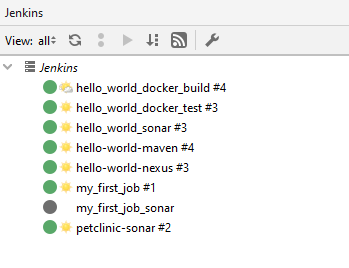
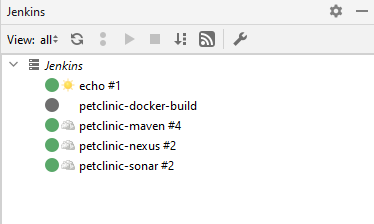
Modifying comments and adding more tools such as grafana and zabbix

Changed region(s): [[0.0, 0.0, 1.0, 1.0], [0.9456, 0.0312, 1.0, 0.0625]]

diff --git a/PIPELINE_GUI.md b/PIPELINE_GUI.md
@@ -1,15 +1,14 @@
-# Set up Jenkins Pipeline by using the graphic interface
- Go to hello_world_maven   
- Go to Post-Build Action   
- Add Post-Build Action   
-select Build other projects and type hello_world_sonar
-Press Apply and save
-Do the same action in 
-hello_world_sonar
-hello_world_nexus
-hello_world_docker_build
-hello_world_docker_run. parallel run hello-world-jmeter, hello-world-selenium
-
+# Set up Jenkins pipeline by using the graphic interface
+ Go to petclinic_maven     
+ Go to Post-Build Action     
+ Add Post-Build Action     
+select Build other projects and type hello_world_sonar  
+Press Apply and save  
+Do the same action in   
+petclinic_sonar  
+prtclinic_nexus  
+petclinic_docker_build
+petclinic_docker_run, eventually for parallel run petclinic-jmeter, petclinic-selenium
 
 
 ## Graphic pipeline 
@@ -17,10 +16,10 @@ Go to  Manage Jenkins ->  Manage Plugin -> Tab available
 Filter Pipeline  select Build Pipeline   
 Press install without restart   
 Go back to the Dashboard  , click on the cross in the tab 
-View name :  hello-world pipeline  
+View name :  petclinic pipeline  
 Check Build Pipeline view   
 Press ok   
-Verify if select initial job is set to  hello-world-maven  
+Verify if select initial job is set to  petclinic-maven  
 See the graph   
 ![jenkins_pipeline](screenshots/pipeline_view.png)
 
@@ -38,21 +37,21 @@ click save
 
 ## Set a github webhook 
 Hit a tab in your browser and go to your personnal github account.   
-Select the hello-world repo   
+Select the petclinic repo   
 Type on settings, it's located on the middle menu on the right side    
 On the left menu select Webhooks   
 click on add webhook  
 Confirm with your password  
 In the page, enter in Payload URL:
 ````shell script
-  http://<jenkins_ip_address>:18080/github-webhook/
+  http://<jenkins_ip_address>:32500/github-webhook/
 ````
 Select for content type :  application/json   
 Press the green button Add webhook  
 Refresh the screen so you can check if the url is ticked in green.  
 
 ## Configure the webhook in Jenkins  
-Go to jenkins and configure hello-world-maven    
+Go to jenkins and configure petclinic-maven    
 in Build Triggers , Check Github hook trigger for GITScm polling 
 Press apply and save  
 

diff --git a/README.md b/README.md
@@ -13,7 +13,7 @@ You need a VM  ubuntu 20.04, 16GB of RAM, 4/6 cores, and 60 GB of SSD.
 
 How to proceed ?  
 ## First install Docker 
-Go to the file UBUNTU.md 
+**Go to UBUNTU.md file and follows the instructions** 
 
 ### Install portainer 
 ```shell
@@ -23,7 +23,6 @@ docker run -d -p 32125:8000 -p 32126:9443 --name portainer --restart=always -v /
 # log on https://<ip>:32126
 #set a password and activate portainer , ypu should see one container
 ```
-
 
 ### Install docker-compose 
 ```shell script
@@ -41,13 +40,14 @@ Hit the following commands for starting up all containers
 ```shell
 docker-compose build # build all containers 
 docker-compose up -d  # launch all containers
-docker ps # Check, 7 jenkins-pic_xxx containers should be up and running
+docker ps 
+# Check, 7 jenkins-pic_xxx containers should be up and running
 ```
 
 ## Go to jenkins
 Open your Chrome Browser      
 type the URL  http://<your_vm_ip_address>:32500    
-user name is : user   
+username is : user   
 password is : password  
 
 ## Get an API token and set timezone
@@ -72,18 +72,16 @@ Here is an overview of all tools:
 ## Access Tools
 ### With docker containers
 | *Tool* | *Link*                                    | *Credentials* |
-| ------------- |-------------------------------------------| ------------- |
+| --------- |-------------------------------------------| ------------- |
 | Jenkins | http://<vm_ip default>:32500/             | to be defined |
 | SonarQube | http://<vm_ip default>:32520/             | admin/admin |
 | Nexus | http://<vm_ip default>:32510/nexus        | admin/use a token and set your own password |
 | Selenium Grid | http://<vm_ip default>:30044/grid/console | no login required |
  | Jmeter | no required                               | no login required |
  | Portainer | **https**://<vm_ip default>:32126         | enter a password at first log in |
-| Hello-world Test | http://<vm_ip default>:30090/webapp       | no login required |
-| Petclinic-Test | http://<vm_ip default>:30190/petclinic    | no login required |
+| Petclinic | http://<vm_ip default>:30190/petclinic    | no login required |
 
-## Go to FIRST_JOB.md file 
-
+## Go to FIRST_JOB.md file and follow the instructions
 
 * IntellijIDEA.mnd
 * DEPLOYMENT.md

diff --git a/DEPLOYMENT.md b/DEPLOYMENT.md
@@ -3,17 +3,17 @@ Using Docker , the deployment stage is done by a Dockerfile inside the
 git repo itself. This is the part of Devops where the infrastructure is in a code.(IaC)  
 
 ## Create a Docker build job
-Create a job hello_world_docker_build  
+Create a job petclinic_docker_build  
 Go to New Item -> Enter a name -> Freestyle -> ok      
 Source code management  
-Check git, provides the git repo of hello-world  
+Check git, provides the git repo of petclinic  
 Build  
 Select Execute shell and copy/paste the following script   
 In the script, the Nexus war file is injected in a Docker image of Tomcat server  
 ```shell script
-rm -Rf webapp.war
-wget http://nexus:8081/repository/maven-releases/com/example/maven-project/maven-project/1.1/maven-project-1.1.war -O ${WORKSPACE}/webapp.war
-docker build -t hello-world-afip:latest .
+rm -Rf spring-framework-petclinic-1.0.war
+wget http://nexus:8081/repository/maven-releases/org/springframework/samples/spring-framework-petclinic/1.0/spring-framework-petclinic-1.0.war -O ${WORKSPACE}/petclinic.war
+docker build -t petclinic:latest .
 ```
 Build
 And apply and save
@@ -21,23 +21,24 @@ Now we have a complete infrastructure for running our code.
 
 
 ## Run  Docker container as a testing environment 
-Create a job hello_world_docker_run  
+Create a job petclinic_docker_run  
 Go to New Item -> Enter a name -> Freestyle -> ok    
 Source code management  
-You don't need to tick git as the source code is in the docker image  
+You don't need to tick git as the source code is inside the docker image  
 Build  
 Select Execute shell and copy/paste the following code  
 ```shell script
-CONTAINER_NAME="hello-world-run"
+CONTAINER_NAME="web"
 OLD="$(docker ps --all --quiet --filter=name="$CONTAINER_NAME")"
 if [ -n "$OLD" ]; then
   docker rm -f $OLD
 fi
-docker run -d --name hello-world-run -p 18090:8080 hello-world-afip
+docker run -d --name web  -p 30190:8080 petclinic
 ```
 and Build now 
 
 Hit a new tab in your browser and check   
-```http://<ip_address_your_vm>:18090/webapp/```
+```http://<ip_address_your_vm>:30190/petclinic```
 
 
+## Got to file PIPELINE_GUI.md

diff --git a/zabbix/README.md b/zabbix/README.md
@@ -1,13 +1,13 @@
 # zabbix
 
-## install zabbix
+## install zabbix server and agent 
 ```shell
 wget https://repo.zabbix.com/zabbix/6.4/ubuntu/pool/main/z/zabbix-release/zabbix-release_6.4-1+ubuntu20.04_all.deb
-dpkg -i zabbix-release_6.4-1+ubuntu20.04_all.deb
-apt update
-sudo apt install zabbix-server-pgsql zabbix-frontend-php php7.4-pgsql zabbix-apache-conf zabbix-sql-scripts zabbix-agent
+sudo dpkg -i zabbix-release_6.4-1+ubuntu20.04_all.deb
+sudo apt update
+sudo apt -y install zabbix-server-pgsql zabbix-frontend-php php7.4-pgsql zabbix-apache-conf zabbix-sql-scripts zabbix-agent
 docker volume create postgresql-db
-docker run -d --name db -v postgresql-db:/bitnami/postgresql -p 5432:5432 \ 
+docker run -d --name db -v postgresql-db:/bitnami/postgresql -p 32432:5432 \ 
 -e POSTGRESQL_PASSWORD=password bitnami/postgresql:13
 ```
 
@@ -16,3 +16,27 @@ docker run -d --name db -v postgresql-db:/bitnami/postgresql -p 5432:5432 \
 docker volume create portainer_data
 docker run -d -p 32125:8000 -p 32126:9443 --name portainer --restart=always -v /var/run/docker.sock:/var/run/docker.sock -v portainer_data:/data portainer/portainer-ce:latest 
 ```
+
+## Reset Portainer password 
+```shell
+docker stop portainer
+docker pull portainer/helper-reset-password
+docker run --rm -v portainer_data:/data portainer/helper-reset-password
+```
+
+## install only a zabbix agent on a remote host
+```shell
+wget https://repo.zabbix.com/zabbix/6.4/ubuntu/pool/main/z/zabbix-release/zabbix-release_6.4-1+ubuntu20.04_all.deb
+sudo dpkg -i zabbix-release_6.4-1+ubuntu20.04_all.deb
+sudo apt update
+sudo apt -y install zabbix-agent
+sudo vi /etc/zabbix/zabbix_agentd.conf
+# add server ip address
+sudo systemctl restart zabbix-agent
+sudo systemctl enable zabbix-agent
+
+```
+
+![zabbix_host](../screenshots/zabbix_host.png)
+
+

diff --git a/JETBRAINS.md b/JETBRAINS.md
@@ -1,0 +1,41 @@
+# Configure your IDE 
+Set up your workspace environnement using JetBrains      
+You should use Goland Jetbrains   
+
+Download the package from   
+https://www.jetbrains.com/idea/download/download-thanks.html?platform=windows
+
+## In the IDE 
+Go to File -> Settings  -> Plugins 
+and install Jenkins Control Plugin 
+Restart Goland 
+You got a right-hand side tab named Jenkins   
+Click on the wrench to get the configuration dialog window
+Fill Server Address, username, passwords, crumb data , jenkins version ver 2.x
+Tick use green color....
+![Jenkins_config](screenshots/jenkins_config_plugin.png)
+### API token  
+go to 
+Copy in crumb data the API token previously saved in your notepad. 
+
+## Remove CSRF failed check message
+Go to Manage Jenkins -> Script console and run the following groovy script.
+```groovy
+import jenkins.model.Jenkins
+def instance = Jenkins.instance
+instance.setCrumbIssuer(null)
+```
+Result  
+
+![Jenkins_screen](screenshots/jenkins_intellij_screen.png)
+
+## Troubleshooting   
+if you have a message URL is mal/formed   
+Go to Jenkins -> manage Jenkins-> Configuration system  
+Go to Jenkins Location   
+and remove the trailing /   
+Press save  
+and test again 
+
+
+## Go to DEPLOYMENT.md file and follow the instructions.

diff --git a/FIRST_JOBS.md b/FIRST_JOBS.md
@@ -146,7 +146,7 @@ Select in the left  Repositories, click on release and browser down to find your
 
 ![nexus](screenshots/nexus_repository.png)
 
-## Go to the file DEPLOYMENT.md
+## Go to the file JETBRAINS.md
 
 
 
